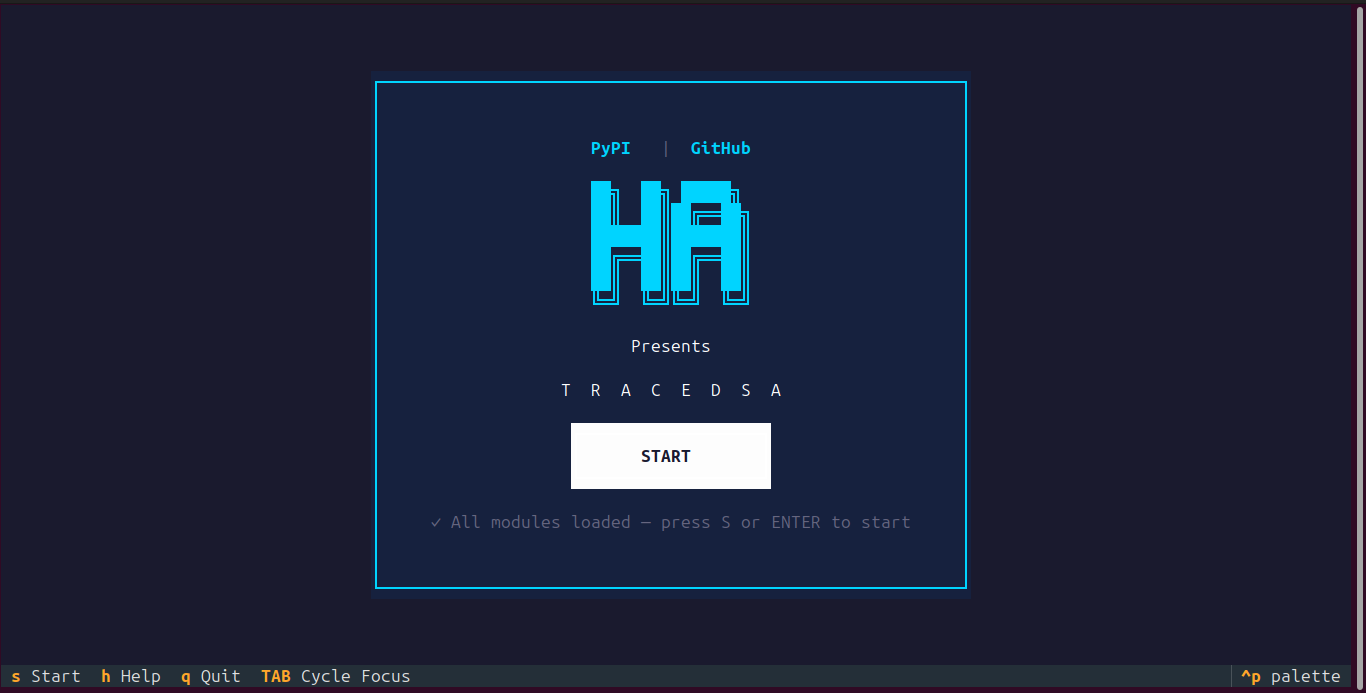
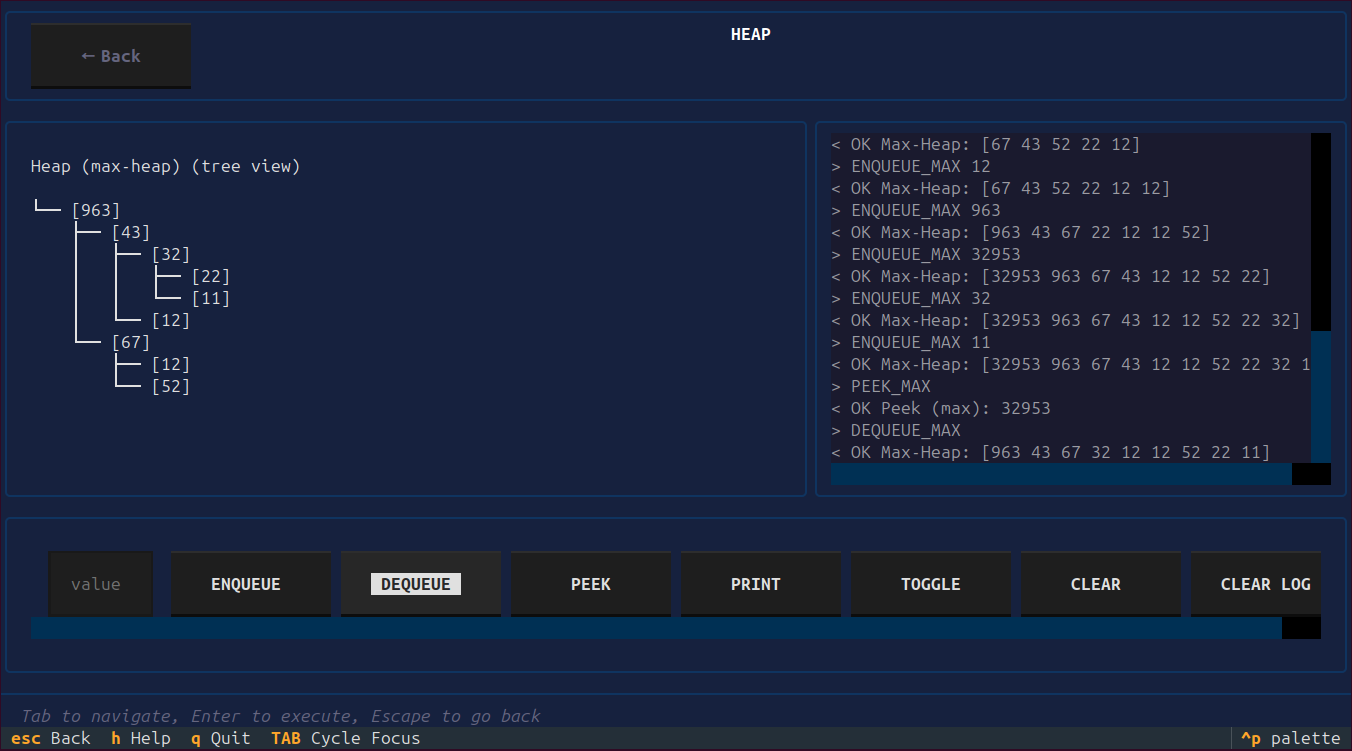
Update README and add roadmap for project planning and feature tracking

diff --git a/README.md b/README.md
@@ -2,7 +2,7 @@
 
 # TraceDSA
 
-**Interactive Data Structures Visualizer** - Built with C++23 + Python Textual TUI
+**Interactive Data Structures Visualizer** Built with C++23 + Python Textual TUI
 
 [![Python 3.10+](https://img.shields.io/badge/Python-3.10+-blue.svg)](https://www.python.org/)
 [![License: MIT](https://img.shields.io/badge/License-MIT-green.svg)](LICENSE)
@@ -11,22 +11,29 @@
 
 </div>
 
-![TraceDSA Screenshot](docs/Trace.png)
+---
 
-## Features
+> **TraceDSA lets you watch data structures think.** Push a value, enqueue a node, insert into a BST and see exactly what happens inside, operation by operation, in your terminal.
 
-- 9 data structures with live ASCII visualization
-- C++23 backend binaries via subprocess bridge
-- Real-time operation log with color-coded responses
-- DS info screen for summary, Big O, pros/cons, usage
-- Search and filter modules from the menu
-- Min/Max heap toggle
-- Cross-platform support (Linux, Windows, macOS)
-- Zero-config install via pipx
+---
 
-## What is it
+![TraceDSA in action — Heap trace session](docs/Trace.png)
 
-TraceDSA is a terminal user interface that wraps custom C++23 data structure implementations in an interactive Python TUI. It lets you explore how stacks, queues, trees, and heaps behave with live ASCII art, operation logging, and instant feedback after every command.
+---
+
+## Why TraceDSA
+
+Most DSA resources show you the theory. TraceDSA shows you the behavior.
+
+Every operation is visualized live in ASCII the structure updates, the op log records what happened, and you can see the state of the data structure at every step. It's built for students who want to actually understand what's happening, not just memorize definitions.
+
+## Why No STL Containers
+
+Every data structure in the C++ backend is built from scratch using a custom `ArrayList` a header-only dynamic array that replaces `std::vector`. No `std::stack`, no `std::queue`, no `std::priority_queue`.
+
+This was a deliberate decision: if you're building a tool to teach how data structures work, you shouldn't be hiding the implementation behind the standard library. The C++ core is the point.
+
+---
 
 ## Install & Run
 
@@ -34,7 +41,8 @@ TraceDSA is a terminal user interface that wraps custom C++23 data structure imp
 pip install tracedsa
 tdsa
 ```
-Or for Modern Linux distros:
+
+On modern Linux distros (PEP 668):
 
 ```bash
 python3 -m venv .venv
@@ -45,6 +53,8 @@ tdsa
 
 Press `s` or click **START** on the splash screen.
 
+---
+
 ## Data Structures
 
 | Category | Implementations | Visualization |
@@ -53,92 +63,115 @@ Press `s` or click **START** on the splash screen.
 | **Queue** | Array, Linked List, Circular | Horizontal |
 | **Linked List** | Singly, Doubly | Arrow nodes |
 | **BST** | Binary Search Tree | Sideways tree |
-| **Heap** | Min-Heap, Max-Heap | Tree + Array |
+| **Heap** | Min-Heap, Max-Heap | Tree + Array toggle |
 
-## How it works
+---
 
-TraceDSA spawns standalone C++23 binaries and communicates via a simple stdin/stdout protocol. The Python Textual TUI sends commands (PUSH 10, ENQUEUE 5, etc.) and updates visualizations instantly. No STL containers everything built from scratch.
+## Features
+
+- Live ASCII visualization after every operation
+- Info screen per DS Big O, pros/cons, use cases
+- Real-time op log with color-coded responses
+- Min/Max heap toggle
+- Search and filter from the menu
+- Cross-platform Linux, Windows, macOS
+- Zero-config install via pip
+
+---
+
+## How It Works
+
+TraceDSA spawns standalone C++23 binaries and communicates via a custom stdin/stdout bridge protocol. The Python Textual TUI sends commands (`PUSH 10`, `ENQUEUE 5`, `INSERT 42`) and receives structured state responses that drive the ASCII widgets.
+
+```
+[Python TUI] --command--> [C++ binary] --state--> [ASCII widget update]
+```
+
+The C++ binaries are bundled inside the package no compiler needed to run it.
+
+---
 
 ## Project Architecture
 
 ```
 TraceDSA/
 ├── C++ Core (no STL containers)
-│   ├── ArrayList/          (header-only dynamic array)
+│   ├── ArrayList/              ← header-only dynamic array (replaces std::vector)
 │   ├── Stack/, Queue/, LinkedList/, BST/, PriorityQueue/
-│   └── *_interactive.cpp   (stdin/stdout bridge)
+│   └── *_interactive.cpp       ← stdin/stdout bridge per DS
 │
 ├── tracedsa/ (Python TUI)
 │   ├── __main__.py
-│   ├── bridge.py
-│   ├── screens/
-│   ├── widgets/ (ascii_array, ascii_tree, ascii_heap, etc.)
-│   └── bins/{linux,windows,macos}/   ← compiled binaries
-|
-└── makefiles/
-|    ├── Makefile         (Running the TestingModules.cpp file)
-|    ├── makefile.windows (build Windows binaries with MinGW)
-|    ├── makefile.inter   (build C++ interactive binaries for Linux)
-|    └── makefile.macos   (build macOS binaries with clang)
-|
-└── pyproject.toml  (package config for pipx installation)
-└── docs/  (screenshots, architecture diagrams, design docs)
+│   ├── bridge.py               ← DSBridge, binary resolution, os.chmod
+│   ├── screens/                ← splash, menu, info_screen, trace_screen
+│   └── widgets/                ← ascii_array, ascii_tree, ascii_heap, ops_log
+│
+├── makefile.inter              ← Linux build
+├── makefile.windows            ← Windows build (MinGW)
+├── makefile.macos              ← macOS build (g++-14)
+└── pyproject.toml              ← hatchling packaging config
 ```
 
-## Development
+---
+
+## Development Setup
 
 ### Prerequisites
 
-- C++23 compiler (g++)
+- C++23 compiler (`g++` recommended, `g++-14` on macOS)
 - Python 3.10+
-- make
+- `make`
 
 ### Build & Run
 
 ```bash
-# 1. Build C++ interactive binaries
+# Build C++ interactive binaries (Linux)
 make -f makefile.inter
 
-# 2. Run the TUI
+# Run the TUI
 cd tracedsa && python -m tracedsa
 ```
 
-For Windows builds:
-
+Windows:
 ```bash
 make -f makefile.windows
 ```
 
-## Requirements
+macOS:
+```bash
+CXX=g++-14 make -f makefile.macos
+```
 
-- Python 3.10+
-- C++23 compliant compiler for development (g++ recommended)
-
-## Built With
-
-- **Python** — [Textual](https://github.com/Textualize/textual) framework for the TUI
-- **C++23** — All data structures implemented from scratch (no STL containers)
-
-## Roadmap
-
-- [ ] Sorting & Searching algorithms
-- [ ] Keyboard shortcuts for all operations
-- [ ] Session export / snapshots
-- [ ] Comprehensive test suite
-
-## Contributing
-
-Contributions are welcome! New data structures, bug fixes, docs, UI improvements 
-please read `CONTRIBUTING.md` first.
-
-## Author
-
-**HA** - [GitHub](https://github.com/HA2077) · [LinkedIn](https://www.linkedin.com/in/hassanahmedcs/)
-
-## License
-
-MIT [LICENSE](LICENSE)
+See `DEVELOPMENT.md` for the full guide including the bridge protocol reference and how to add a new data structure.
 
 ---
 
+## Roadmap
+
+See [ROADMAP.md](docs/ROADMAP.md) for the full versioned plan.
+
+**Coming in v1.0.x:** bug fixes, keyboard shortcuts, heap toggle fix, arrow key navigation  
+**Coming in v1.1:** sorting algorithm visualizations (step-by-step states from C++)
+
+---
+
+## Contributing
+
+Contributions welcome — new data structures, bug fixes, UI improvements, docs.  
+Please read `CONTRIBUTING.md` before opening a PR.
+
+---
+
+## Author
+
+**HA** [GitHub](https://github.com/HA2077) · [LinkedIn](https://www.linkedin.com/in/hassanahmedcs/)
+
+## License
+
+MIT — see [LICENSE](LICENSE)
+
+---
+
+<div align="center">
 Made with ❤️ for learning and teaching Data Structures & Algorithms.
+</div>

diff --git a/docs/ROADMAP.md b/docs/ROADMAP.md
@@ -1,0 +1,60 @@
+# TraceDSA Roadmap
+
+This document tracks the planned development direction for TraceDSA. The project is actively maintained contributions toward any of these are welcome.
+
+---
+
+## v1.0.x — Polish & Stability (Current)
+
+Bug fixes and UX improvements on the shipped foundation.
+
+- [ ] Fix broken/misaligned ASCII art entries in the menu quote pool
+- [ ] Fix heap min/max toggle state not updating immediately in all cases
+- [ ] Wire tree/array toggle button for heap visualization (backend exists, no UI trigger yet)
+- [ ] Add keyboard shortcuts for DS operations (`p` → PUSH, `o` → POP, etc.)
+- [ ] Add arrow key navigation throughout menus
+- [ ] Add confirm dialog on escape from trace screen
+- [ ] Add clear-log button in trace view
+- [ ] Harden ArrayList C++ implementation edge cases
+
+---
+
+## v1.1 — Sorting Algorithms
+
+Extend TraceDSA beyond data structures into algorithm visualization.
+
+- [ ] Bubble Sort
+- [ ] Selection Sort
+- [ ] Insertion Sort
+- [ ] Merge Sort
+- [ ] Quick Sort
+
+Each algorithm will generate a step-by-step state list from the C++ backend. The Python TUI iterates through states with a configurable timer, showing each comparison and swap as it happens.
+
+---
+
+## v1.2 — Quality of Life
+
+- [ ] Session export save a trace session as a log file
+- [ ] Snapshots bookmark a state mid-trace and return to it
+- [ ] Comprehensive test suite for C++ modules
+- [ ] Speed control for algorithm playback
+
+---
+
+## Future Considerations
+
+- Graph data structures (adjacency list / matrix)
+- Search algorithm visualizations (BFS, DFS, Binary Search)
+
+---
+
+## Recently Shipped (v1.0.0 → v1.0.3)
+
+- 9 data structure modules: Stack (Array/LL), Queue (Array/LL/Circular), Singly LL, Doubly LL, BST, Min/Max Heap
+- Info screen per DS with Big O, pros/cons, use cases
+- Custom `ArrayList` C++23 backend — no STL containers
+- Custom stdin/stdout binary bridge protocol
+- Cross-platform CI/CD — Linux, Windows, macOS via GitHub Actions
+- Published to PyPI as `tdsa` CLI tool
+- Menu redesign with categories, search, ASCII art pool